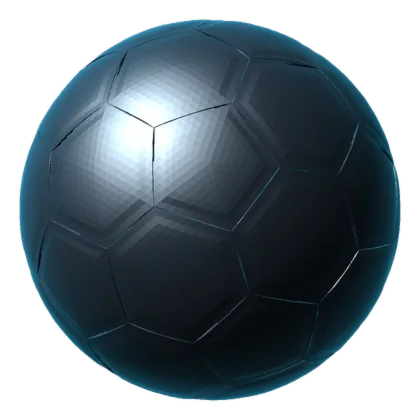
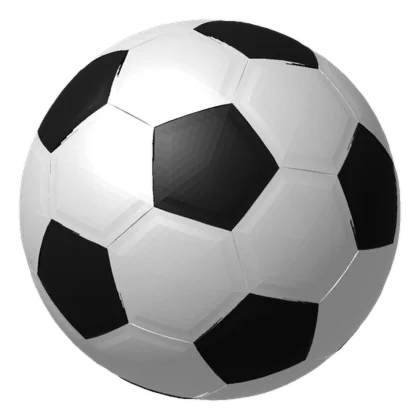
Centre the ball between the words, and make it black and white
The placement was off by a measurable amount, not just by eye: ARVAND sets
523px wide against SPORT's 393, so centring the line as a unit put the gap's
midpoint 65px right of the viewport centre while the ball stayed pinned at
50%. It bit further into one word than the other at every width.

space-between did not fix it either, and could not: with equal outer margins
and unequal words the gap is always offset by half their difference. Each
half now takes an equal share of the line and sets its text against the gap —
lead flush right, tail flush left — which puts the gap's midpoint exactly at
the centre whatever the words are. Measured at 1440, 1200, 1024 and 820: the
offset is 0 at all four.

The ball is black and white. The FBX carries no material data, so the panels
are recovered from the mesh: flood-fill triangles across every shared edge
whose dihedral angle is under 20 degrees, and the creased seams split the
surface into exactly 32 regions — 12 of 410 faces and 20 of 492, which are
the pentagons and hexagons of a truncated icosahedron. Colouring by region
gives exact panel edges.

The first attempt classified faces by their angle to the nearest icosahedron
vertex, which is where the pentagons sit. That put the black in the right
places but cut across the subdivided mesh, so every pentagon had a ragged
starburst edge.

Shading is neutral grey now. It had a small blue boost for the chrome look,
[…]

diff --git a/dist/assets/css/main.css b/dist/assets/css/main.css
@@ -1648,16 +1648,24 @@ a.office__row:hover { color: var(--white); }
 }
 
 /* Display line ---------------------------------------------------------- */
-.apex__title { margin: 0; }
+/* The pin centres its grid items, which shrinks the heading to its content —
+   so space-between inside it had no free space to distribute and the halves
+   stayed bunched around the centre. Stretched, the halves reach the gutters
+   and the gap between them is genuinely centred. */
+.apex__title { margin: 0; width: 100%; justify-self: stretch; }
 .apex__display {
   /* One line, split. The gap is the ball's seat: the two halves sit at the
      outer edges and the object occupies the middle, so the line reads as one
      phrase interrupted rather than as two stacked labels. */
-  display: flex; align-items: center; justify-content: center;
-  width: 100%; margin-inline: auto;
-  /* Sized so the pair plus the gap fits the viewport: the halves must not run
-     off the edge, and nowrap means they will if the type is a step too big. */
-  gap: clamp(120px, 24vw, 380px);
+  /* space-between, not centre. The two halves are different widths — ARVAND
+     is half again as wide as SPORT — so centring the line as a unit put the
+     gap off-centre while the ball stayed pinned at 50%, and it bit further
+     into one word than the other. Pushed to the edges instead, the gap is
+     always centred in the container, so the ball lands in the middle of it
+     whatever the words are. gap is then a minimum, not a fixed spacer. */
+  display: flex; align-items: center;
+  width: 100%; margin-inline: auto; padding-inline: var(--gutter);
+  gap: clamp(60px, 12vw, 200px);
   font-family: "Playfair Display", "Bodoni MT", Didot, "Times New Roman", Georgia, serif;
   font-weight: 400; font-style: normal;
   font-size: clamp(2.6rem, 8.8vw, 9.5rem);
@@ -1666,6 +1674,14 @@ a.office__row:hover { color: var(--white); }
 }
 
 /* The object ------------------------------------------------------------ */
+/* Each half takes an equal share of the line and sets its text against the
+   gap — lead flush right, tail flush left. Equal boxes put the gap's midpoint
+   exactly at the container's centre no matter how the two words differ in
+   width, which is the only way the ball can sit symmetrically between them. */
+.apex__word { flex: 1 1 0; min-width: 0; }
+.apex__word--lead { text-align: right; }
+.apex__word--tail { text-align: left; }
+
 .apex__object {
   position: absolute; top: 50%; left: 50%; z-index: 2;
   width: clamp(210px, 34vw, 430px); aspect-ratio: 1;
@@ -1689,10 +1705,13 @@ a.office__row:hover { color: var(--white); }
   }
 }
 /* A soft bloom under the facets so the core reads as lit from inside. */
+/* A halo behind the ball, not a bloom inside it: the ball is opaque white
+   now, so an internal glow only tinted the panels at its edges. This sits
+   wider than the ball and reads as light coming off it. */
 .apex__core {
-  position: absolute; inset: 26%; border-radius: 50%;
-  background: radial-gradient(circle, var(--accent) 0%, rgba(5, 237, 255, .28) 38%, transparent 70%);
-  filter: blur(26px); opacity: .55;
+  position: absolute; inset: -14%; border-radius: 50%;
+  background: radial-gradient(circle, rgba(5, 237, 255, .16) 38%, rgba(5, 237, 255, .07) 58%, transparent 72%);
+  filter: blur(40px); opacity: .9;
 }
 
 /* Corner labels --------------------------------------------------------- */

diff --git a/src/styles/pages.css b/src/styles/pages.css
@@ -657,16 +657,24 @@ a.office__row:hover { color: var(--white); }
 }
 
 /* Display line ---------------------------------------------------------- */
-.apex__title { margin: 0; }
+/* The pin centres its grid items, which shrinks the heading to its content —
+   so space-between inside it had no free space to distribute and the halves
+   stayed bunched around the centre. Stretched, the halves reach the gutters
+   and the gap between them is genuinely centred. */
+.apex__title { margin: 0; width: 100%; justify-self: stretch; }
 .apex__display {
   /* One line, split. The gap is the ball's seat: the two halves sit at the
      outer edges and the object occupies the middle, so the line reads as one
      phrase interrupted rather than as two stacked labels. */
-  display: flex; align-items: center; justify-content: center;
-  width: 100%; margin-inline: auto;
-  /* Sized so the pair plus the gap fits the viewport: the halves must not run
-     off the edge, and nowrap means they will if the type is a step too big. */
-  gap: clamp(120px, 24vw, 380px);
+  /* space-between, not centre. The two halves are different widths — ARVAND
+     is half again as wide as SPORT — so centring the line as a unit put the
+     gap off-centre while the ball stayed pinned at 50%, and it bit further
+     into one word than the other. Pushed to the edges instead, the gap is
+     always centred in the container, so the ball lands in the middle of it
+     whatever the words are. gap is then a minimum, not a fixed spacer. */
+  display: flex; align-items: center;
+  width: 100%; margin-inline: auto; padding-inline: var(--gutter);
+  gap: clamp(60px, 12vw, 200px);
   font-family: "Playfair Display", "Bodoni MT", Didot, "Times New Roman", Georgia, serif;
   font-weight: 400; font-style: normal;
   font-size: clamp(2.6rem, 8.8vw, 9.5rem);
@@ -675,6 +683,14 @@ a.office__row:hover { color: var(--white); }
 }
 
 /* The object ------------------------------------------------------------ */
+/* Each half takes an equal share of the line and sets its text against the
+   gap — lead flush right, tail flush left. Equal boxes put the gap's midpoint
+   exactly at the container's centre no matter how the two words differ in
+   width, which is the only way the ball can sit symmetrically between them. */
+.apex__word { flex: 1 1 0; min-width: 0; }
+.apex__word--lead { text-align: right; }
+.apex__word--tail { text-align: left; }
+
 .apex__object {
   position: absolute; top: 50%; left: 50%; z-index: 2;
   width: clamp(210px, 34vw, 430px); aspect-ratio: 1;
@@ -698,10 +714,13 @@ a.office__row:hover { color: var(--white); }
   }
 }
 /* A soft bloom under the facets so the core reads as lit from inside. */
+/* A halo behind the ball, not a bloom inside it: the ball is opaque white
+   now, so an internal glow only tinted the panels at its edges. This sits
+   wider than the ball and reads as light coming off it. */
 .apex__core {
-  position: absolute; inset: 26%; border-radius: 50%;
-  background: radial-gradient(circle, var(--accent) 0%, rgba(5, 237, 255, .28) 38%, transparent 70%);
-  filter: blur(26px); opacity: .55;
+  position: absolute; inset: -14%; border-radius: 50%;
+  background: radial-gradient(circle, rgba(5, 237, 255, .16) 38%, rgba(5, 237, 255, .07) 58%, transparent 72%);
+  filter: blur(40px); opacity: .9;
 }
 
 /* Corner labels --------------------------------------------------------- */

diff --git a/dist/player/ali-pourdara/index.html b/dist/player/ali-pourdara/index.html
@@ -108,7 +108,7 @@
     <h3 class="deal__title">Club &amp; contract</h3>
     <dl class="deal__rows"><div class="deal__row"><dt>Club</dt><dd>Kuwait SC</dd></div><div class="deal__row"><dt>Joined</dt><dd>Nov 1, 2020</dd></div><div class="deal__row"><dt>Contract until</dt><dd>Jun 30, 2029</dd></div></dl>
     <div class="deal__bar">
-      <div class="deal__track"><span class="deal__fill" data-bar style="--pct:67.2%"></span></div>
+      <div class="deal__track"><span class="deal__fill" data-bar style="--pct:67.3%"></span></div>
       <div class="deal__scale"><span>Nov 1, 2020</span><span>Jun 30, 2029</span></div>
       <p class="deal__state">33% of the term still to run</p>
     </div>

diff --git a/tools/render-ball.py b/tools/render-ball.py
@@ -1,6 +1,6 @@
-import json, math, sys
+import json, math
 import numpy as np
-from PIL import Image
+from PIL import Image, ImageDraw
 
 SC='/tmp/claude-0/-home-user-novaclip-site/11349094-514b-5775-9c6a-f86a6c041393/scratchpad'
 d=json.load(open(f'{SC}/geo0.json'))
@@ -9,47 +9,67 @@ tris=[]
 for f in d['faces']:
     for i in range(1,len(f)-1): tris.append((f[0],f[i],f[i+1]))
 F=np.array(tris,dtype=np.int32)
+V-=V.mean(axis=0); V/=np.abs(V).max()
 
-# centre and normalise to a unit sphere
-V-=V.mean(axis=0)
-V/=np.abs(V).max()
+# The 12 pentagon centres of a truncated icosahedron sit on the icosahedron's
+# vertex directions. Classify each face by the angle from its own direction to
+# the nearest of those, so panels get their colour from geometry rather than
+# from material data the FBX does not carry.
+phi=(1+5**0.5)/2
+ico=[]
+for s1 in(1,-1):
+    for s2 in(1,-1):
+        ico += [(0,s1,s2*phi),(s1,s2*phi,0),(s1*phi,0,s2)]
+I=np.unique(np.round(np.array(ico)/np.linalg.norm(ico,axis=1)[:,None],6),axis=0)
+
+# Panels come from the mesh itself: flood-fill triangles across every shared
+# edge whose dihedral angle is under 20 degrees and the creased seams split
+# the surface into exactly 32 regions — 12 of 410 faces and 20 of 492, the
+# pentagons and hexagons of a truncated icosahedron. Colouring by region
+# gives exact panel edges; thresholding by angle to the nearest icosahedron
+# vertex, which is where this started, left them ragged.
+BLACK=np.load(f'{SC}/isblack.npy')
 
 def render(angle, size=360, ss=3):
     S=size*ss
     ca,sa=math.cos(angle),math.sin(angle)
     Ry=np.array([[ca,0,sa],[0,1,0],[-sa,0,ca]])
-    tilt=math.radians(-14); ct,st=math.cos(tilt),math.sin(tilt)
+    t=math.radians(-14); ct,st=math.cos(t),math.sin(t)
     Rx=np.array([[1,0,0],[0,ct,-st],[0,st,ct]])
     P=V@Ry.T@Rx.T
-
     n0,n1,n2=P[F[:,0]],P[F[:,1]],P[F[:,2]]
-    nrm=np.cross(n1-n0,n2-n0)
-    ln=np.linalg.norm(nrm,axis=1); ln[ln==0]=1
-    nrm/=ln[:,None]
-    facing=nrm[:,2]>0                      # backface cull
-    idx=np.where(facing)[0]
+    nrm=np.cross(n1-n0,n2-n0); L=np.linalg.norm(nrm,axis=1); L[L==0]=1; nrm/=L[:,None]
+    idx=np.where(nrm[:,2]>0)[0]
     z=(n0[:,2]+n1[:,2]+n2[:,2])/3
-    idx=idx[np.argsort(z[idx])]            # painter's algorithm
+    idx=idx[np.argsort(z[idx])]
 
-    L=np.array([-0.5,0.62,0.61]); L/=np.linalg.norm(L)
-    lam=np.clip(nrm@L,0,1)
-    Hh=np.array([-0.34,0.42,0.84]); Hh/=np.linalg.norm(Hh)
-    spec=np.clip(nrm@Hh,0,1)**16
-    rim=np.clip(1-nrm[:,2],0,1)**3.0
+    Ld=np.array([-0.45,0.6,0.66]); Ld/=np.linalg.norm(Ld)
+    lam=np.clip(nrm@Ld,0,1)
+    H=np.array([-0.3,0.4,0.87]); H/=np.linalg.norm(H)
+    spec=np.clip(nrm@H,0,1)**20
+    rim=np.clip(1-nrm[:,2],0,1)**3.2
+    black=BLACK
 
-    img=Image.new('RGBA',(S,S),(0,0,0,0))
-    from PIL import ImageDraw
-    dr=ImageDraw.Draw(img,'RGBA')
-    cx=cy=S/2; R=S*0.455
+    img=Image.new('RGBA',(S,S),(0,0,0,0)); dr=ImageDraw.Draw(img,'RGBA')
+    c=S/2; R=S*0.455
     for i in idx:
-        tri=[(cx+P[F[i,k],0]*R, cy-P[F[i,k],1]*R) for k in range(3)]
-        base=10+lam[i]*54                      # dark chrome body
-        r=int(base*0.72+spec[i]*230+rim[i]*22)
-        g=int(base*0.94+spec[i]*245+rim[i]*118)
-        bl=int(base*1.18+spec[i]*250+rim[i]*150)
-        dr.polygon(tri,fill=(min(r,255),min(g,255),min(bl,255),255))
+        tri=[(c+P[F[i,k],0]*R, c-P[F[i,k],1]*R) for k in range(3)]
+        # Neutral grey, deliberately. An earlier pass gave blue a small boost
+        # for a chrome look; on a white-and-black ball that boost dominates the
+        # dark panels and they read teal rather than black.
+        if black[i]:
+            v = 10 + lam[i] * 20 + spec[i] * 95 + rim[i] * 16
+        else:
+            v = 126 + lam[i] * 116 + spec[i] * 86 + rim[i] * 10
+        v = max(0, min(255, int(v)))
+        r = g = b = v
+        dr.polygon(tri,fill=(r,g,b,255))
     return img.resize((size,size),Image.LANCZOS)
 
 if __name__=='__main__':
-    render(0.0).save(f'{SC}/ball-test.png')
-    print('test frame written')
+    from PIL import ImageFilter
+    sheet=Image.new('RGBA',(360*3,360),(0,0,0,0))
+    for k,a in enumerate([0.0,1.1,2.2]):
+        sheet.paste(render(a).filter(ImageFilter.GaussianBlur(0.4)),(k*360,0))
+    sheet.save(f'{SC}/bw-test.png')
+    print('rendered')
